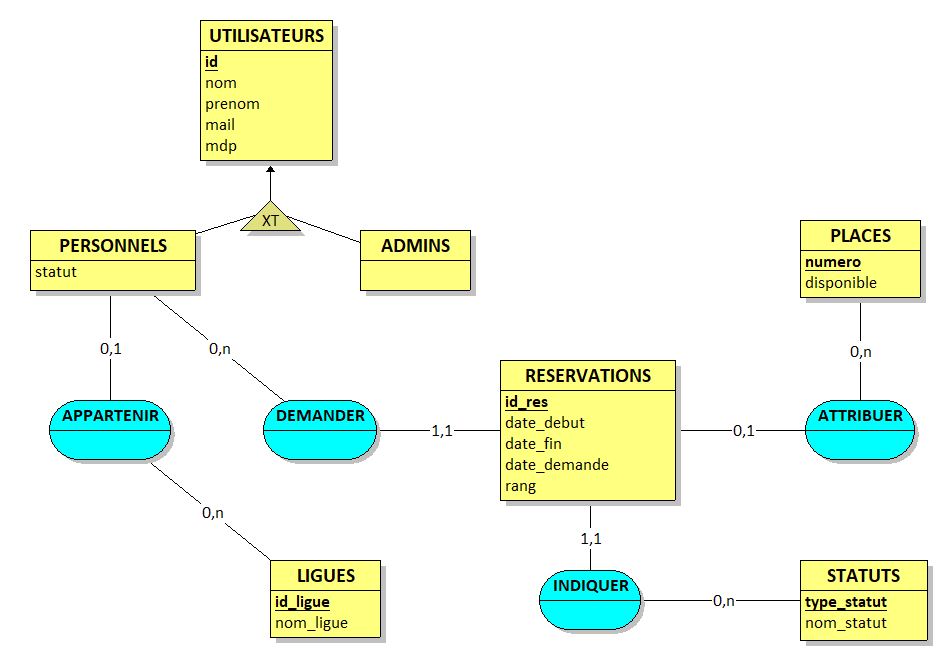
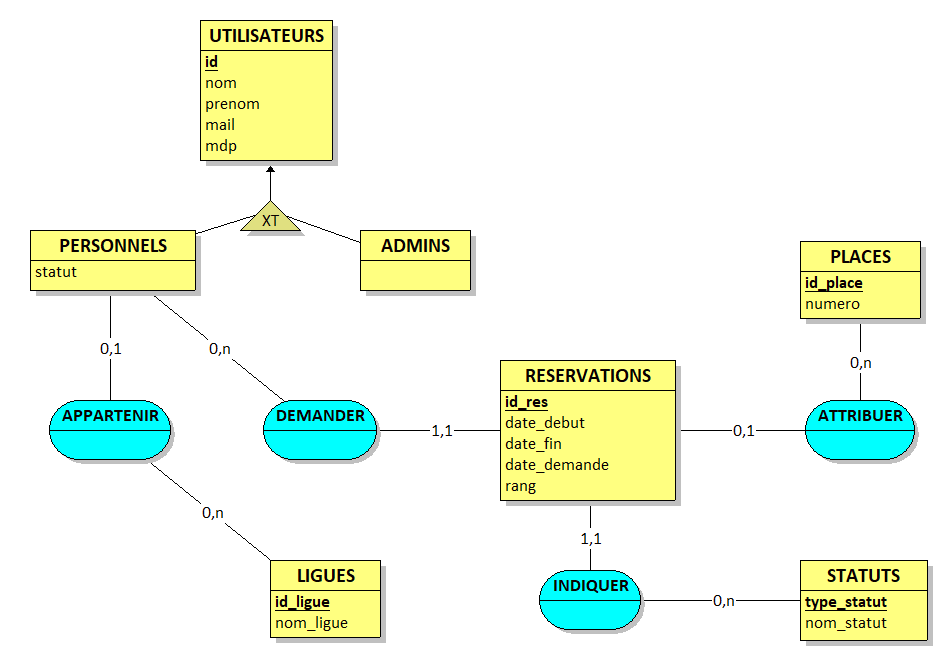
🗃 Remove disponible field, add a place id

Changed region(s): [[0.8348, 0.3379, 0.9893, 0.5837]]

diff --git a/src/database/migrations/2020_02_24_153851_add_foreign_keys.php b/src/database/migrations/2020_02_24_153851_add_foreign_keys.php
@@ -2,7 +2,6 @@
 
 use Illuminate\Database\Migrations\Migration;
 use Illuminate\Database\Schema\Blueprint;
-use Illuminate\Support\Facades\DB;
 use Illuminate\Support\Facades\Schema;
 
 class AddForeignKeys extends Migration
@@ -31,8 +30,8 @@ class AddForeignKeys extends Migration
             $table->foreign('id_personnel')
                 ->references('id')
                 ->on('personnels');
-            $table->foreign('numero_place')
-                ->references('numero')
+            $table->foreign('id_place')
+                ->references('id')
                 ->on('places');
             $table->foreign('type_statut')
                 ->references('id')
@@ -62,7 +61,7 @@ class AddForeignKeys extends Migration
         });
         Schema::table('reservations', function (Blueprint $table) {
             $table->dropForeign(['id_personnel']);
-            $table->dropForeign(['numero_place']);
+            $table->dropForeign(['id_place']);
             $table->dropForeign(['type_statut']);
         });
         Schema::table('lien_reset', function (Blueprint $table) {

diff --git a/src/database/migrations/2020_02_24_144237_create_places_table.php b/src/database/migrations/2020_02_24_144237_create_places_table.php
@@ -18,8 +18,8 @@ class CreatePlacesTable extends Migration
             // $table->charset = 'utf8';
             $table->collation = 'utf8mb4_unicode_ci';
 
-            $table->char('numero', 10)->primary();
-            $table->boolean('disponible');
+            $table->integerIncrements('id');
+            $table->char('numero', 10)->unique();
             // $table->timestamps();
         });
     }
